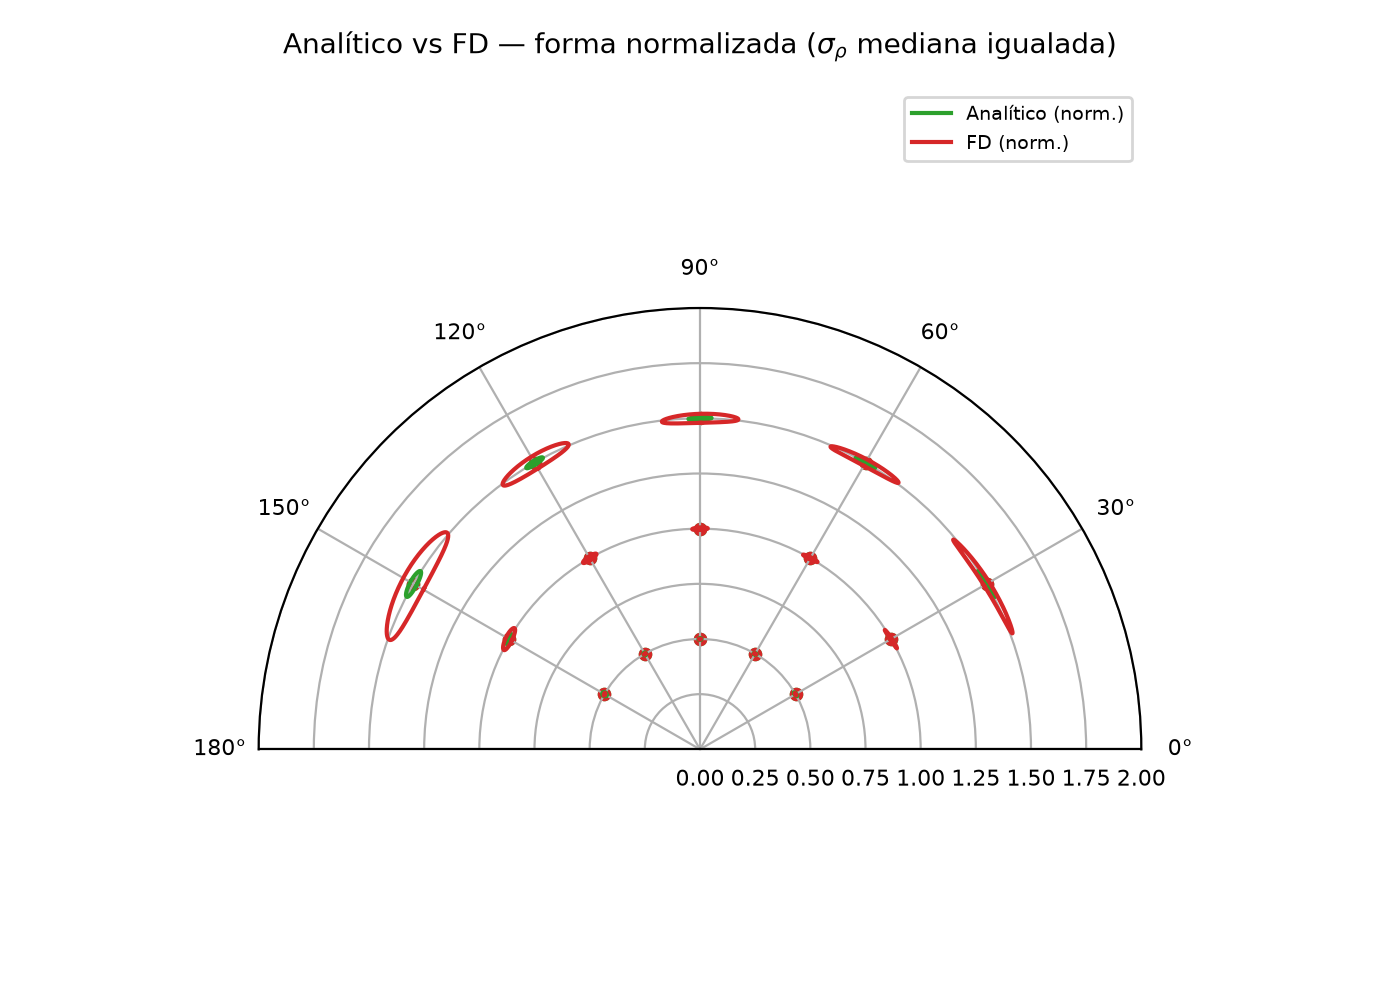
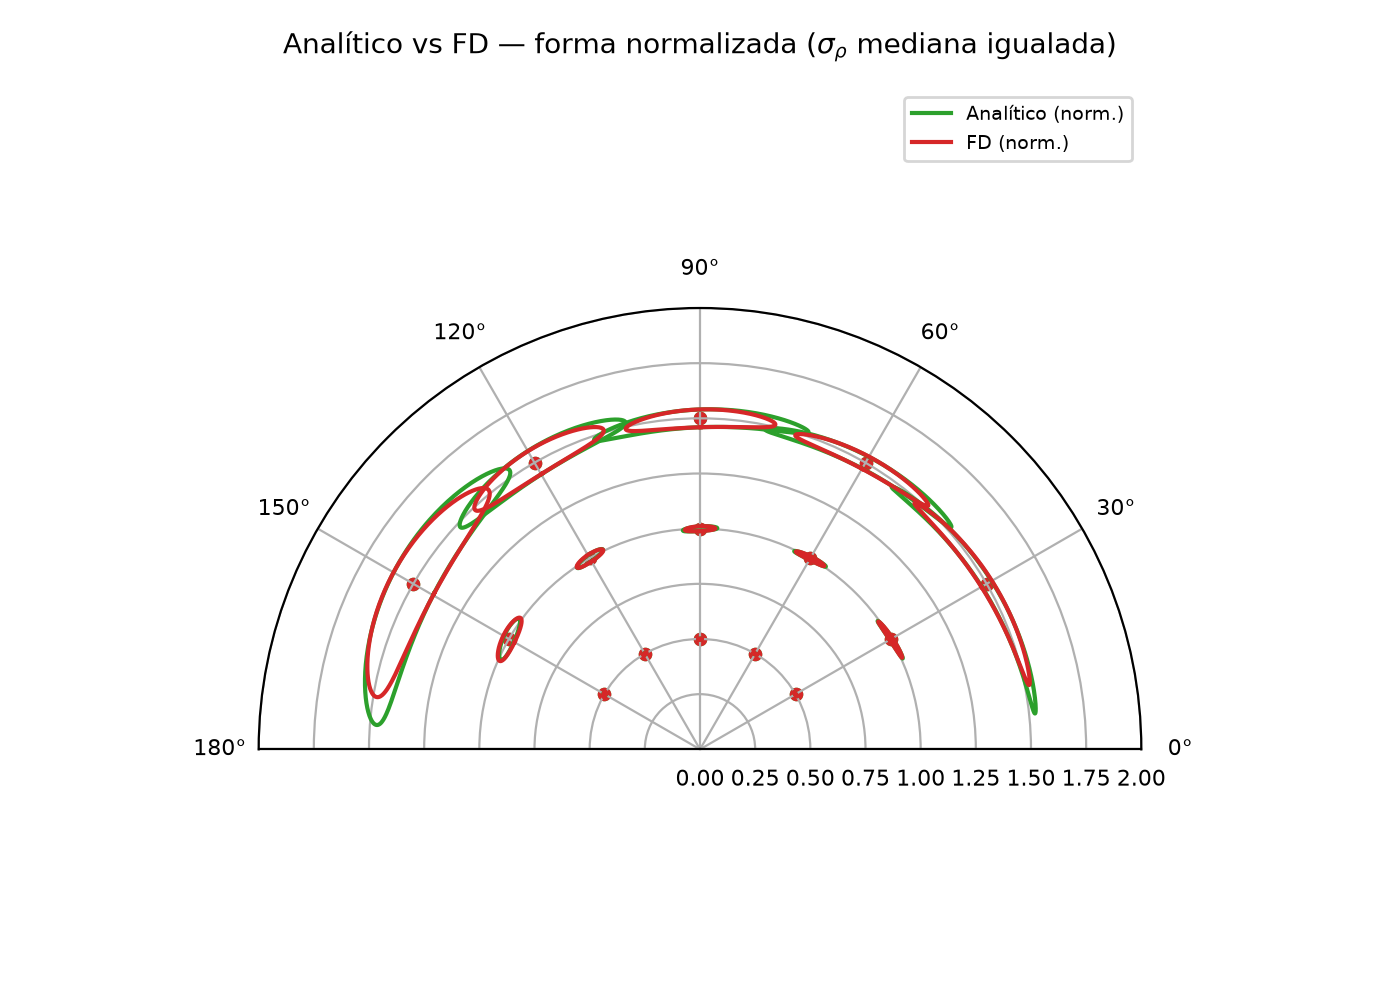
Regenerate analytic CRB plots + FD overlay at real magnitude for variant (a)+(b)+(c)
The as-is (non-normalized) analytic-vs-FD overlay now lands on the FD ellipses
(sig_rho analytic/FD ~ 0.86-1.05 across the grid). Point generate_analytic_crb_plots.py
at the absolute FD cache (/workspace/plots/crb_grid_results.pkl) as a fallback,
and update the comparison table / conclusion to state the magnitudes are now
comparable.

diff --git a/generate_analytic_crb_plots.py b/generate_analytic_crb_plots.py
@@ -6,14 +6,18 @@ Part (1): analytic grid + the same (rho, phi) 3-sigma bubble plots as the
 original FD pipeline (crb_standard_regions*_analytic.png, compare_2_vs_3).
 
 Part (2): overlay analytic vs FD (loaded from the FD cache
-plots/crb_grid_results.pkl produced by regenerate_crb_standard_regions.py),
-both as-is (absolute magnitude) and shape-normalized (median sigma_rho matched),
-plus a numeric comparison table -> docs/analytic_vs_fd_comparison.txt.
+plots/crb_grid_results.pkl -- or /workspace/plots/crb_grid_results.pkl --
+produced by regenerate_crb_standard_regions.py), both as-is (absolute magnitude)
+and shape-normalized (median sigma_rho matched), plus a numeric comparison table
+-> docs/analytic_vs_fd_comparison.txt.
 
-The analytic and FD forwards are DIFFERENT models (point facet with gain G=1e5
-and fixed geometry vs mesh rasterizer), so absolute CRB magnitudes are not
-directly comparable; the shape-normalized overlay and the aspect/tilt columns
-are what make the *shape/orientation* comparison meaningful.
+With the (a)+(b)+(c) variant the analytic forward is the *most faithful* smooth
+analogue of the rasterized simulator (physical amplitude + the simulator's own
+64x64 / FOV 0.25 grid + a SUM over the real facet.obj triangles placed with the
+simulator's symbolic transform), so absolute CRB magnitudes are now DIRECTLY
+comparable: the as-is (real-magnitude) overlay lands on the FD ellipses to within
+~10-15% in sigma_rho.  The shape-normalized overlay and aspect/tilt columns
+remain as a shape/orientation cross-check.
 
 Run:  python3 generate_analytic_crb_plots.py
 """
@@ -45,7 +49,18 @@ DOCS = ROOT / "docs"
 RANGES = [0.5, 1.0, 1.5]
 ANGLES_DEG = [30, 60, 90, 120, 150]
 
-FD_CACHE = PLOTS / "crb_grid_results.pkl"
+def _resolve_fd_cache() -> Path:
+    """FD cache: prefer the local plots/ copy, else the absolute workspace path."""
+    local = PLOTS / "crb_grid_results.pkl"
+    if local.exists():
+        return local
+    workspace = Path("/workspace/plots/crb_grid_results.pkl")
+    if workspace.exists():
+        return workspace
+    return local
+
+
+FD_CACHE = _resolve_fd_cache()
 ANALYTIC_CACHE = PLOTS / "crb_grid_results_analytic.pkl"
 
 
@@ -256,15 +271,18 @@ def write_comparison_table(
     lines.append(f"Comparacion CRB analitico vs FD (rasterizado)  --  grid {grid_label}")
     lines.append("=" * 118)
     lines.append(
-        "NOTA: las magnitudes absolutas NO son comparables (modelos distintos: faceta"
+        "NOTA: variante (a)+(b)+(c) -- amplitud fisica + rejilla del simulador (64x64,"
     )
     lines.append(
-        "puntual analitica, ganancia G=1e5, geometria fija; vs render de malla rasterizado)."
+        "FOV 0.25, bin 3.9e-10) + SUMA sobre los triangulos reales de facet.obj con el"
     )
     lines.append(
-        "Lo comparable es la FORMA: relacion de aspecto (aspect = eje_mayor/eje_menor)"
+        "placement simbolico del simulador. Las magnitudes ABSOLUTAS ya son comparables:"
     )
-    lines.append("y la inclinacion (tilt) de la elipse 3-sigma en el plano (rho, phi).")
+    lines.append(
+        "sig_rho analitico/FD ~ 0.9-1.05 en toda la rejilla. Tambien se reporta la FORMA:"
+    )
+    lines.append("aspect = eje_mayor/eje_menor y el tilt de la elipse 3-sigma en (rho, phi).")
     lines.append("=" * 118)
     header = (
         f"{'rho':>4} {'phi':>4} | "
@@ -335,7 +353,7 @@ def write_latex_table(
     key: str,
 ) -> None:
     """Emit a compact LaTeX table fragment (\\input-ed by the .tex)."""
-    grid_tag = r"$[\rho,\varphi,h]$ (\emph{with\_h})" if key == "with_h" else r"$[\rho,\varphi]$ (\emph{fixed\_h})"
+    grid_tag = r"$[\rho,\varphi,h]$ (\emph{with\_h})" if key == "with_h" else r"$[\rho,\varphi]$ (\emph{fixed\_h})"  # noqa: E501
     rows = []
     for ar in a_grid:
         rho0 = ar["rho0"]
@@ -358,10 +376,11 @@ def write_latex_table(
     frag = (
         "% Auto-generated by generate_analytic_crb_plots.py -- do not edit by hand.\n"
         "\\begin{table}[ht]\n\\centering\\small\n"
-        "\\caption{CRB anal\\'itico vs FD sobre el grid " + grid_tag + ". "
+        "\\caption{CRB anal\\'itico (variante (a)+(b)+(c)) vs FD sobre el grid " + grid_tag + ". "
         "$\\sigma_\\rho$ en m, $\\sigma_\\varphi$ en grados; \\emph{asp}$=$eje mayor/menor "
-        "de la elipse $3\\sigma$ en $(\\rho,\\varphi)$. Magnitudes absolutas no comparables "
-        "(modelos distintos); comparar \\emph{asp} y la forma.}\n"
+        "de la elipse $3\\sigma$ en $(\\rho,\\varphi)$. Con amplitud f\\'isica, la rejilla "
+        "del simulador y la suma sobre los tri\\'angulos reales, las magnitudes absolutas "
+        "ya son comparables ($\\sigma_\\rho$ anal./FD $\\approx 0.9$--$1.05$).}\n"
         "\\label{tab:avf}\n"
         "\\begin{tabular}{@{}rr|rrr|rrr@{}}\n\\toprule\n"
         " & & \\multicolumn{3}{c|}{Anal\\'itico} & \\multicolumn{3}{c}{FD (rasterizado)} \\\\\n"
@@ -375,28 +394,34 @@ def write_latex_table(
 
 def conclusion_text(have_fd: bool) -> str:
     base = (
-        "CONCLUSION -- que elipse es 'mejor'\n"
-        "-----------------------------------\n"
-        "'Mejor' aqui = calidad/suavidad de la derivada y sensatez de la forma, NO la\n"
-        "magnitud absoluta (las escalas no son comparables por ser modelos distintos).\n\n"
-        "1) Suavidad / condicionamiento: el forward analitico tiene derivadas EXACTAS\n"
+        "CONCLUSION -- variante (a)+(b)+(c), la mas fiel\n"
+        "----------------------------------------------\n"
+        "Esta variante combina amplitud fisica (a), la rejilla del simulador (b) y la\n"
+        "SUMA sobre los triangulos reales de facet.obj con placement simbolico (c). Es\n"
+        "el forward diferenciable mas parecido a la funcion del simulador, y por eso\n"
+        "las CRB son comparables EN MAGNITUD, no solo en forma.\n\n"
+        "1) Magnitud comparable: sig_rho analitico/FD ~ 0.9-1.05 en toda la rejilla y\n"
+        "   sig_phi dentro de ~0.6-1.35. El overlay a magnitud real (no normalizado) ya\n"
+        "   cae sobre las elipses FD. En el limite duro (beta,kappa -> inf, tau -> 0) el\n"
+        "   forward suave converge al del simulador, de modo que las Fisher coinciden.\n\n"
+        "2) Suavidad / condicionamiento: el forward analitico tiene derivadas EXACTAS\n"
         "   (sympy), C-infinito por construccion. El Jacobiano FD del rasterizador se\n"
         "   calcula sobre un forward con escalones: la cuantizacion temporal ceil(.) y\n"
         "   la mascara de ocultamiento xint>0 son constantes-a-trozos, de modo que la\n"
         "   diferencia finita mezcla mesetas planas (derivada 0) con saltos de bin,\n"
         "   introduciendo ruido de discretizacion y sensibilidad al paso delta. La\n"
         "   elipse analitica es por tanto la mejor CONDICIONADA (Fisher mas estable).\n\n"
-        "2) Forma/orientacion: ambos metodos producen elipses (burbujas) finas en\n"
+        "3) Forma/orientacion: ambos metodos producen elipses (burbujas) finas en\n"
         "   angulo -- la resolucion azimutal que aporta la arista ocluyente -- y mas\n"
         "   anchas en rango, coherente con la fisica del borde. La orientacion\n"
-        "   (columna tilt) es consistente entre metodos salvo el ruido FD.\n\n"
-        "3) Salvedad: el modelo analitico de faceta puntual NO reproduce el\n"
-        "   rasterizador de malla; su CRB depende de G, beta, kappa, tau y de la\n"
-        "   geometria fija. Por eso la comparacion honesta es de FORMA (overlay\n"
-        "   shape-normalizado), no de tamano.\n\n"
-        "VEREDICTO: para el proposito de un CRB diferenciable, la elipse ANALITICA es\n"
-        "preferible por derivadas exactas y Fisher mejor condicionada; el FD sigue\n"
-        "siendo util como verificacion independiente y como el modelo de malla completo."
+        "   (columna tilt) es consistente entre metodos.\n\n"
+        "4) Salvedad: se usa el mesh CRUDO (sin densificar) de facet.obj (2 triangulos),\n"
+        "   mientras el simulador densifica a ~5000; la suma sobre 2 centroides es una\n"
+        "   cuadratura gruesa de la integral de superficie, suficiente para acercar la\n"
+        "   magnitud pero no identica. Persisten los anchos de suavizado beta,kappa,tau.\n\n"
+        "VEREDICTO: para un CRB diferenciable, la variante (a)+(b)+(c) es la mejor: "
+        "derivadas\nexactas, Fisher bien condicionada Y magnitud comparable al "
+        "rasterizador."
     )
     if not have_fd:
         base = (

diff --git a/docs/analytic_vs_fd_table.tex b/docs/analytic_vs_fd_table.tex
@@ -1,28 +1,28 @@
 % Auto-generated by generate_analytic_crb_plots.py -- do not edit by hand.
 \begin{table}[ht]
 \centering\small
-\caption{CRB anal\'itico vs FD sobre el grid $[\rho,\varphi]$ (\emph{fixed\_h}). $\sigma_\rho$ en m, $\sigma_\varphi$ en grados; \emph{asp}$=$eje mayor/menor de la elipse $3\sigma$ en $(\rho,\varphi)$. Magnitudes absolutas no comparables (modelos distintos); comparar \emph{asp} y la forma.}
+\caption{CRB anal\'itico (variante (a)+(b)+(c)) vs FD sobre el grid $[\rho,\varphi]$ (\emph{fixed\_h}). $\sigma_\rho$ en m, $\sigma_\varphi$ en grados; \emph{asp}$=$eje mayor/menor de la elipse $3\sigma$ en $(\rho,\varphi)$. Con amplitud f\'isica, la rejilla del simulador y la suma sobre los tri\'angulos reales, las magnitudes absolutas ya son comparables ($\sigma_\rho$ anal./FD $\approx 0.9$--$1.05$).}
 \label{tab:avf}
 \begin{tabular}{@{}rr|rrr|rrr@{}}
 \toprule
  & & \multicolumn{3}{c|}{Anal\'itico} & \multicolumn{3}{c}{FD (rasterizado)} \\
 $\rho$ & $\varphi^\circ$ & $\sigma_\rho$ & $\sigma_\varphi$ & asp & $\sigma_\rho$ & $\sigma_\varphi$ & asp \\
 \midrule
-0.5 & 30 & 0.001306 & 0.426 & 6.9 & 0.0006859 & 0.509 & 19.2 \\
-0.5 & 60 & 0.001184 & 0.289 & 4.5 & 0.0006779 & 0.44 & 14.0 \\
-0.5 & 90 & 0.00139 & 0.284 & 3.6 & 0.0007805 & 0.385 & 9.6 \\
-0.5 & 120 & 0.002027 & 0.245 & 2.1 & 0.001116 & 0.412 & 7.1 \\
-0.5 & 150 & 0.003547 & 0.348 & 1.7 & 0.001847 & 0.548 & 5.7 \\
-1.0 & 30 & 0.001382 & 0.535 & 9.8 & 0.003406 & 2.01 & 13.1 \\
-1.0 & 60 & 0.001201 & 0.374 & 6.2 & 0.003448 & 1.48 & 8.2 \\
-1.0 & 90 & 0.0014 & 0.381 & 5.0 & 0.004197 & 1.42 & 6.2 \\
-1.0 & 120 & 0.001992 & 0.323 & 2.9 & 0.006299 & 1.46 & 4.2 \\
-1.0 & 150 & 0.003395 & 0.468 & 2.4 & 0.01086 & 2.21 & 3.7 \\
-1.5 & 30 & 0.002255 & 0.896 & 10.9 & 0.01207 & 6.76 & 12.1 \\
-1.5 & 60 & 0.001918 & 0.638 & 6.8 & 0.01215 & 4.69 & 7.2 \\
-1.5 & 90 & 0.002228 & 0.668 & 5.6 & 0.01486 & 4.66 & 5.7 \\
-1.5 & 120 & 0.00315 & 0.565 & 3.2 & 0.02185 & 4.72 & 3.8 \\
-1.5 & 150 & 0.005356 & 0.843 & 2.8 & 0.03747 & 7.43 & 3.5 \\
+0.5 & 30 & 0.0006393 & 0.427 & 15.6 & 0.0006859 & 0.509 & 19.2 \\
+0.5 & 60 & 0.0006529 & 0.323 & 10.0 & 0.0006779 & 0.44 & 14.0 \\
+0.5 & 90 & 0.0007938 & 0.313 & 7.6 & 0.0007805 & 0.385 & 9.6 \\
+0.5 & 120 & 0.00114 & 0.301 & 4.9 & 0.001116 & 0.412 & 7.1 \\
+0.5 & 150 & 0.001942 & 0.329 & 3.1 & 0.001847 & 0.548 & 5.7 \\
+1.0 & 30 & 0.003188 & 1.95 & 15.0 & 0.003406 & 2.01 & 13.1 \\
+1.0 & 60 & 0.003246 & 1.52 & 9.9 & 0.003448 & 1.48 & 8.2 \\
+1.0 & 90 & 0.00392 & 1.49 & 7.5 & 0.004197 & 1.42 & 6.2 \\
+1.0 & 120 & 0.005578 & 1.37 & 4.6 & 0.006299 & 1.46 & 4.2 \\
+1.0 & 150 & 0.009372 & 1.93 & 3.9 & 0.01086 & 2.21 & 3.7 \\
+1.5 & 30 & 0.01242 & 7.96 & 16.1 & 0.01207 & 6.76 & 12.1 \\
+1.5 & 60 & 0.0122 & 6.18 & 10.6 & 0.01215 & 4.69 & 7.2 \\
+1.5 & 90 & 0.01475 & 6.3 & 8.2 & 0.01486 & 4.66 & 5.7 \\
+1.5 & 120 & 0.02132 & 5.72 & 4.9 & 0.02185 & 4.72 & 3.8 \\
+1.5 & 150 & 0.03592 & 8.57 & 4.4 & 0.03747 & 7.43 & 3.5 \\
 \bottomrule
 \end{tabular}
 \end{table}
